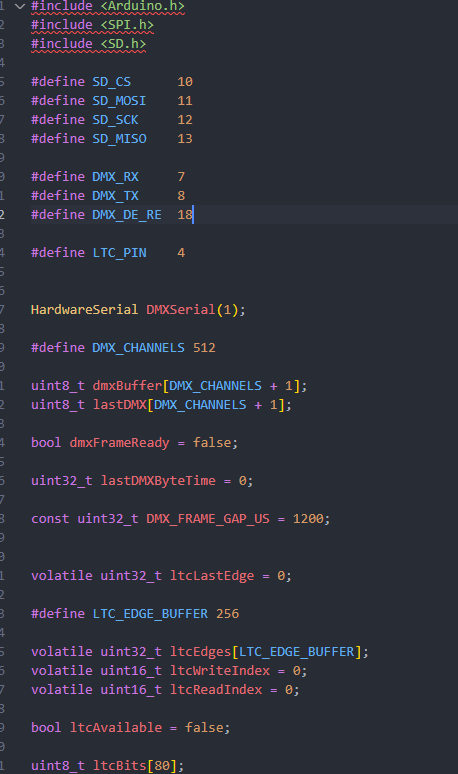
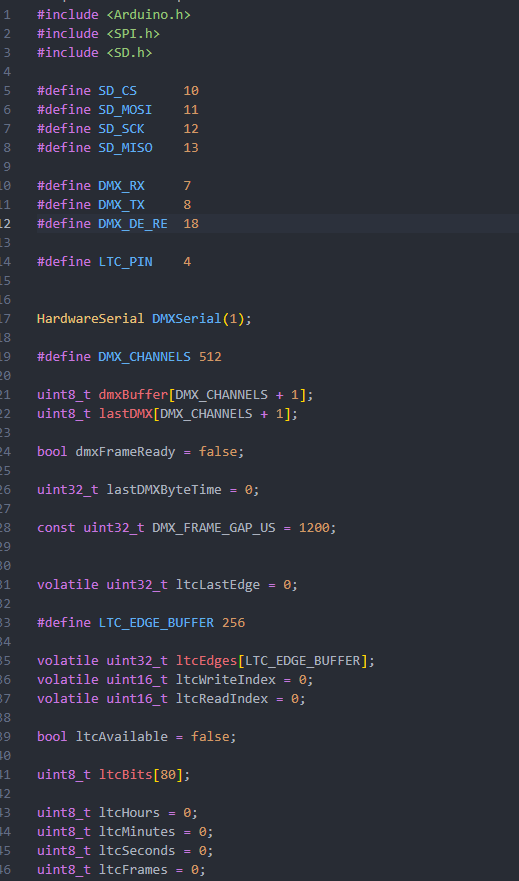
resolving pbs

diff --git a/README.md b/README.md
@@ -43,6 +43,7 @@ The enclosure was designed to be fully 3D printable, allowing easy reproduction 
 ![alt text](Pictures/image-3.png)
 
 ## CAD Files
+![alt text](Pictures/image-1.png)
 [text](cad/AssemblyBoxRepeater.step)
 [text](cad/BoxRepeater.step)
 [text](cad/TopBoxRepeater.step)
@@ -53,12 +54,14 @@ The enclosure was designed to be fully 3D printable, allowing easy reproduction 
 # Electronic Design
 
 ## Schematic
+![alt text](Pictures/image.png)
 [text](Scheme/RepeaterDMX.kicad_sch)
 
 ---
 
 # Firmware
 This is firmware:
+![alt text](Pictures/soft.png)
 [text](Software/repeaterDMX/repeaterDMX.ino)
 
 

diff --git a/JOURNAL.md b/JOURNAL.md
@@ -70,3 +70,9 @@ I also calculate frame and storage for show:
 ![alt text](Pictures/soft.png)
 
 **Total time spent: 1 hours**
+
+# New response
+I received: Hey, cool project, but you need pictures of your wiring diagram/schematic in your readme
+
+Thanks for your time !
+I add it: ![alt text](Pictures/image.png)
